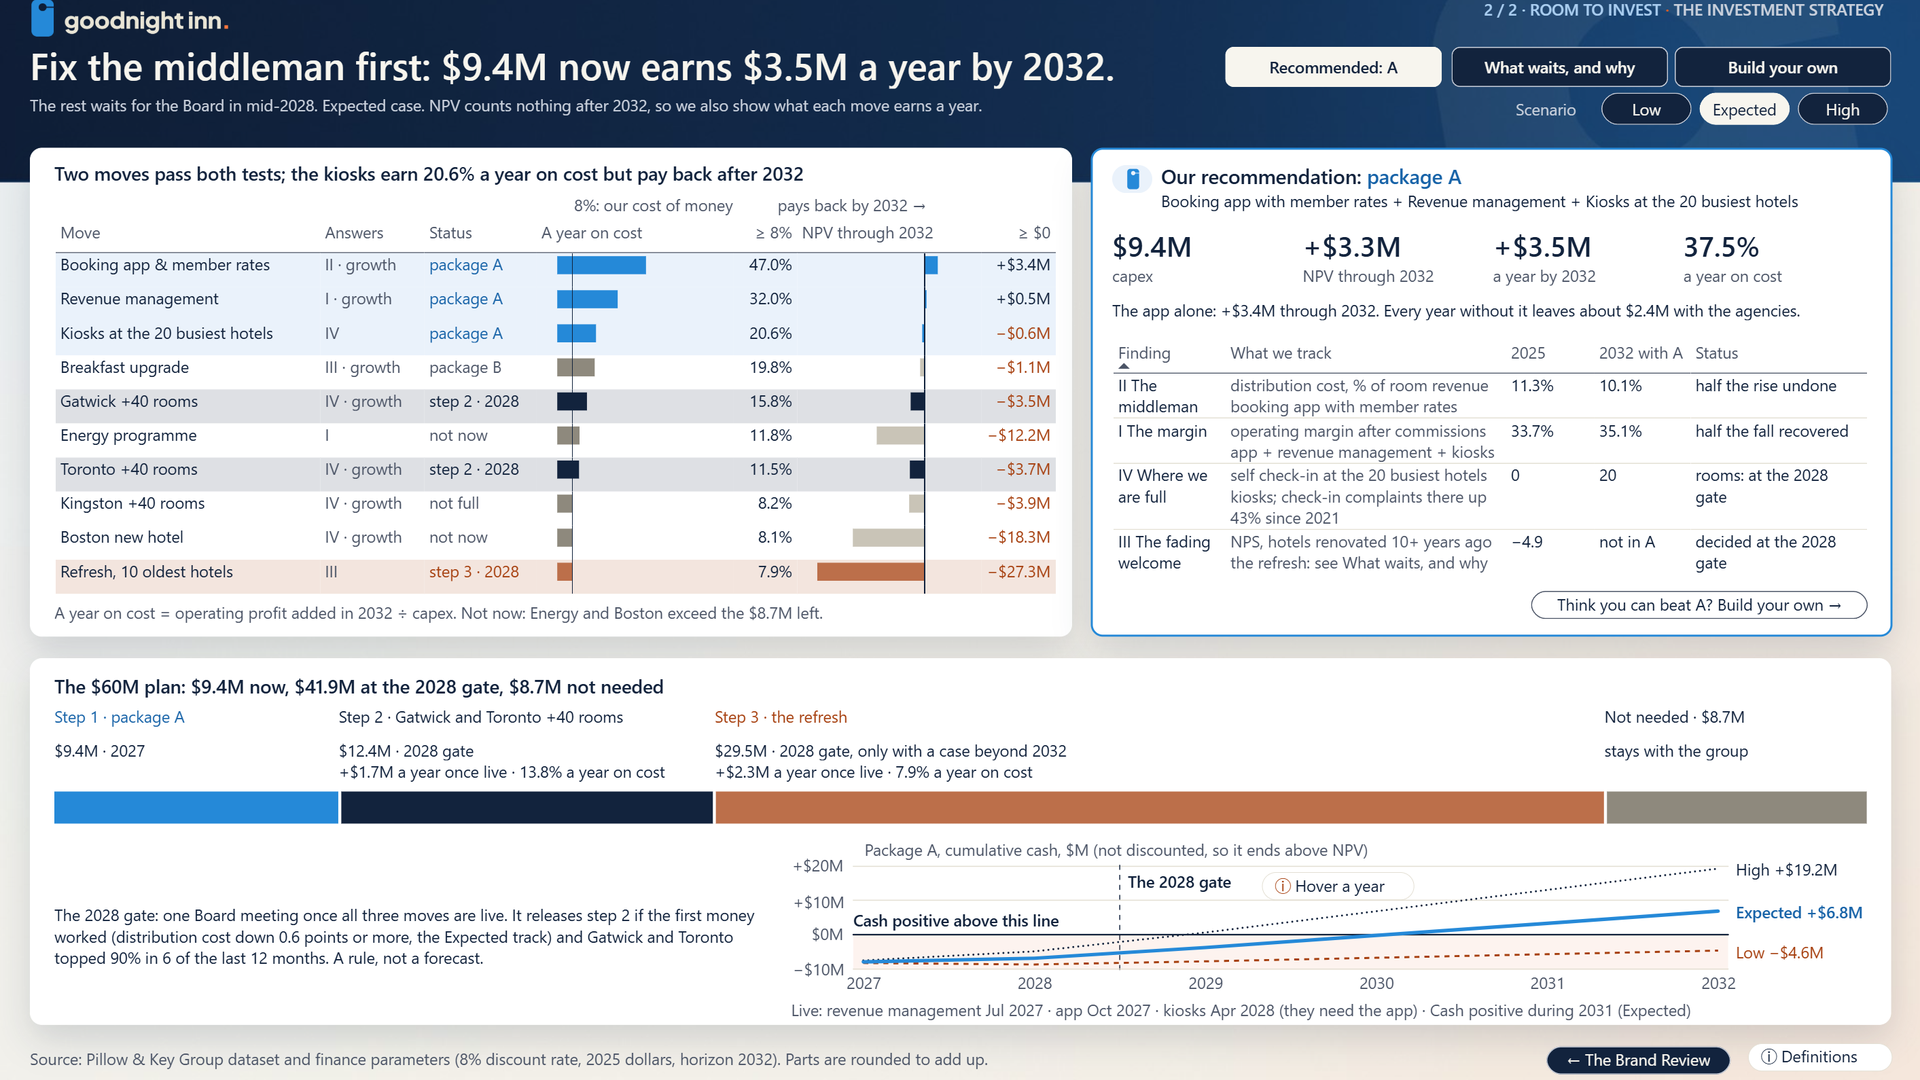
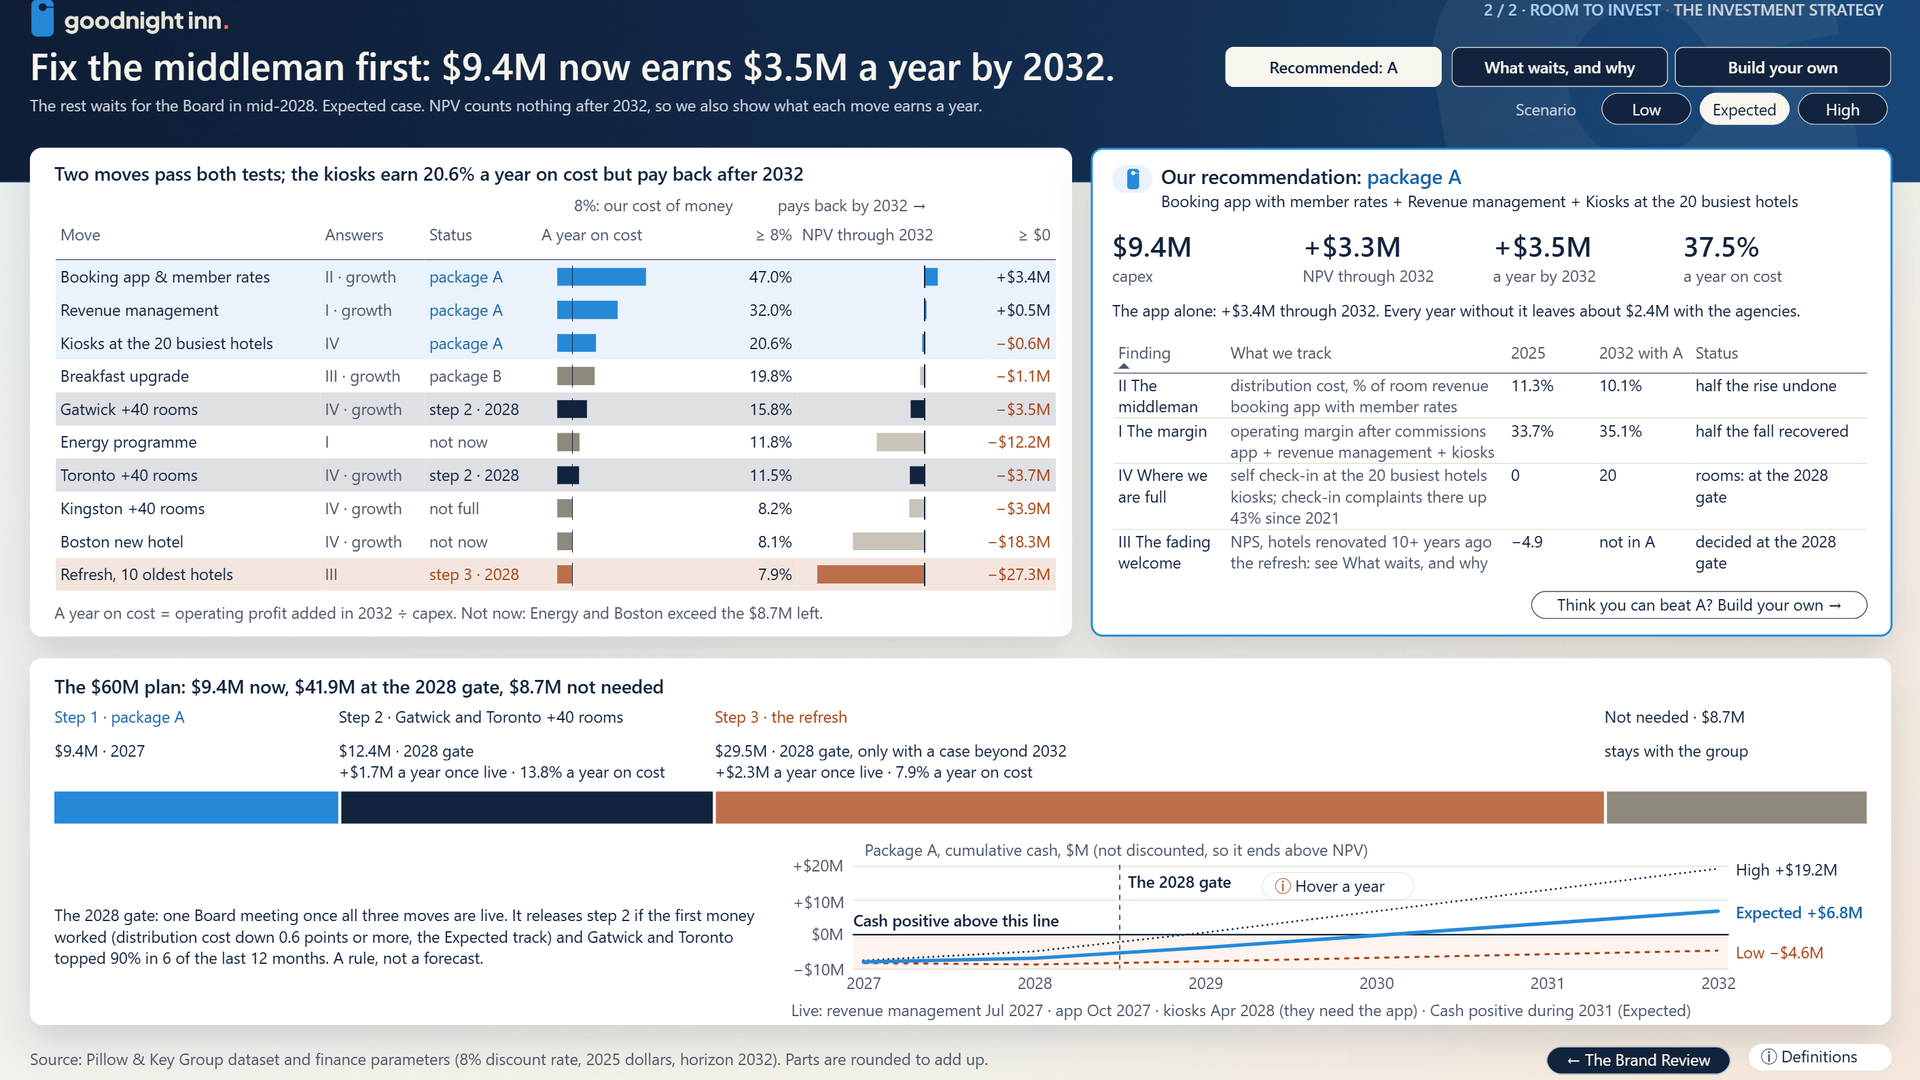
The hero table's text in the middle of its row (doc 39)
A native table has no vertical alignment; f10_rows_centred.py gives the rows a padding of 5 px, bar images of 23 px with
the bar in their middle, and moves the table and the covers of doc 33 with it. The two reference lines are a stroke per
row now (inside the image, so on the bars at every zoom); an unbroken line as a shape over the table was tried and
dropped. Checks on the final copy's own model: texts 130 of 130, numbers 765 of 765, alt texts 0 flags; strip 0; a11y 4
(the orange dot of 21:48).

Changed region(s): [[0.0312, 0.2139, 0.5625, 0.55]]

diff --git a/project/project-state/active/39-hero-table-rows-centred-2026-11-16.md b/project/project-state/active/39-hero-table-rows-centred-2026-11-16.md
@@ -1,0 +1,84 @@
+# 39 · The hero table's text in the middle of its row (16 Nov 2026, night)
+
+**For:** Bjorn, and the agent that picks the project up after him.
+**Asked by Bjorn on 16 Nov, on doc 38:** "the text in the table is aligned to the top of the row instead of the middle;
+this makes the highlight look a bit odd. Can we middle the text or is that impossible? And double check: are we still
+able to call this native visuals only?"
+**Base:** the report as doc 38 left it (he had not saved since 21:48).
+**Branch:** `final/rows-centred`, moved into `rebuild-finalv3`. `main` untouched. **Not published.**
+
+---
+
+## 1 · The answer to both questions
+
+**Vertical alignment.** A native table has no such setting: Microsoft's formatting catalog
+(`powerbi-report-author formatting describe-object tableEx values | grid | columnFormatting | columnHeaders`) lists
+`alignment` (left, centre, right) and nothing for top, middle, bottom. What a table has is **row padding**: the same
+space above and under the text puts the text in the middle. That is what this edit uses.
+
+**Native visuals only: yes.** The report holds no custom visual (no `publicCustomVisuals`, no visual type outside
+Power BI's own: table, line, bar, column, area and scatter chart, card, slicer, button, shape, image, text box). The
+bars in the table are images that DAX measures write and the native table shows; that was so before this edit.
+
+## 2 · The edit (`project/tools/final_edit/f10_rows_centred.py <.Report dir> <.SemanticModel dir>`, can be run again)
+
+| What | Was | Is |
+|---|---|---|
+| `tbl_hero` row padding | 0 | 5 px above and under the text |
+| The bar images | 34 px high, as the row | 23 px: the row minus its padding. The bar (18 px) in the image's middle |
+| A row | 34 px, the text on its top | 33 px, text and bar in its middle |
+| The two reference lines (8 %, NPV 0) | one unbroken line down the ten rows | one stroke of 23 px in every row, 10 px apart: a dashed line |
+| The table | y 224, 374 high | y 219.5, 378 high: the header takes the padding too (41.9 px, was 33.5), its words stay at their height |
+| The ten rows | y 257.5 to 597.5 | y 261.4 to 592.4 |
+| `cover_hero_yield`, `cover_hero_npv` (doc 33) | over the old rows | over the new ones |
+
+**Why the lines are dashed now.** A line ran unbroken because its image was as high as its row. With padding an image
+ends 5 px from the row's edge, so each row keeps its own stroke.
+
+**Tried and dropped: two rectangles over the table for an unbroken line.** Desktop places a shape on whole screen
+pixels; at the zoom of the test window that is a grid of 2 page px, and the line stood up to 1.7 px beside the point
+where the NPV bars begin. Inside the image the line cannot leave the bars, at any zoom. The script removes the two
+rectangles (`hero_line_8`, `hero_line_0`) if a copy still has them.
+
+**Padding 5 and not 6.** With 6 the text's box is in the middle, but its capitals sit about 1 px low; with 5 the
+capitals are within a quarter of a pixel of the row's middle, and the stroke is 2 px longer.
+
+**The model** (341 measures, none new): `Hero Yield Bar SVG`, `Hero NPV Bar SVG`. `sketch_model.py` (`HERO_PAD`,
+`HERO_IMG_H`), `opzet_report.py` (the grid) and `number_checks.py` (the image's height, the bar's place) say the same.
+
+## 3 · Checks
+
+On the final copy's own model (open in Desktop): texts against the spec 130 of 130, numbers 765 of 765, alt texts
+0 flags. On `GoodnightInn-final.Report`: strip check 0, `pbir_detect` 0 unwaived, `validate` 0 errors; `a11y_check`
+4 failures, the orange dot of Bjorn's save of 21:48, nothing of this edit.
+Measured on a throwaway copy: a row 33.1 px, the header rule at y 260.7, the first row from 261.4; no scroll bar.
+
+Evidence: `project/deliverables/final-room-to-invest/rows-centred/` (`table-before.png`, `table-after.png`,
+`table-tried-unbroken-line.png`, `page2-recommended.png`, `checks/`). The gallery's `report-page2.png` and
+`cover-b.png` were made again.
+
+## 4 · The open window
+
+Two measures synced into the open window's model and the report reloaded in it once. Not captured (doc 37 section 4);
+seen on the throwaway copy, which holds the same files.
+
+## 5 · Known, and left
+
+- **The hover text of doc 33 was not tried again.** The covers are over the new rows by measurement; whether an image
+  cell still overflows with padding was not measured. First thing to hover on the new link.
+- Rendered in the Recommended view; the table is in no other view. Low and High not rendered (the bars' lengths
+  follow the case, their place in the row does not).
+- The generator's report has the same grid and images; it was not rendered.
+
+## 6 · Open
+
+1. Bjorn looks at it in the window "Goodnight Inn - Room to Invest": keep, or back to rows without padding (commit
+   `ba793c6`).
+2. He publishes and makes the Publish to Web link; then the gate and the walkthrough (a bar in the hero table first).
+3. Then File > Save as `.pbix`, the phone check, the post (doc 35), 17 Nov.
+
+## Log
+
+- 16 Nov night: the catalog read; row padding tried on a throwaway copy; an unbroken line over the table tried,
+  measured and dropped; the dashed line inside the images built, applied to the final copy and the open window's
+  model; checks; pushed.

diff --git a/CLAUDE.md b/CLAUDE.md
@@ -119,6 +119,7 @@ The daily driver is `/next` — it reads the state, reports gate status, and rou
 | Pakket A in één oogopslag 16 nov laat: de drie rijen van pakket A op een lichtblauw vlak, de aanbevelingskaart met een Coffee Blue-rand, één kleur per besluit (A blauw, stap 2 Night, stap 3 leigrijs, ook in de tabel), en overal Step in plaats van Tranche; 341 measures; edit `project/tools/final_edit/f7_package_a.py`, open venster bijgewerkt met `f7_push_model.ps1`; niet gepubliceerd | `project/project-state/active/36-package-a-at-a-glance-2026-11-16.md`; `project/deliverables/final-room-to-invest/package-a/` |
 | Vlakken voor stap 2 en 3, 16 nov nacht: de rijen van stap 2 en stap 3 in de tabel op een licht vlak in hun eigen kleur, dezelfde drie vlakken achter de labels boven de planbalk (`plan_tint_1..3`), NPV-balk van een stap in de stapkleur; op Bjorns save van 21:48 (o.a. oranje punt in de eyebrows, regel '44 of 50 hotels' weg); edit `project/tools/final_edit/f8_step_tints.py`; a11y: 4 meldingen, alle vier de oranje punt; niet gepubliceerd | `project/project-state/active/37-step-grounds-table-and-plan-bar-2026-11-16.md`; `project/deliverables/final-room-to-invest/step-tints/` |
 | Stap 3 in klei, 16 nov nacht: Bjorn koos klei (#BC6F4A, Burnt Tangerine op 75 %) als derde accent voor stap 3 in planbalk en tabel; de vlakken boven de planbalk van doc 37 zijn weg, de drie plannen blijven gemarkeerd in de tabel (A lichtblauw, stap 2 licht Night, stap 3 licht klei); edit `project/tools/final_edit/f9_step3_clay.py`; niet gepubliceerd | `project/project-state/active/38-step-3-in-clay-2026-11-16.md`; `project/deliverables/final-room-to-invest/step3-accent/` |
+| Tabeltekst in het midden van de rij, 16 nov nacht: een native tabel kent geen verticale uitlijning; rijpadding 5 px zet tekst en balk in het midden van een rij van 33 px, de balkafbeeldingen zijn 23 px en de twee referentielijnen lopen daardoor gestreept (per rij een streep, in de afbeelding zelf); een doorlopende lijn als vorm over de tabel is geprobeerd en verworpen; edit `project/tools/final_edit/f10_rows_centred.py`; niet gepubliceerd | `project/project-state/active/39-hero-table-rows-centred-2026-11-16.md`; `project/deliverables/final-room-to-invest/rows-centred/` |
 | Keep the toolkit first-in-class (research any subject) | skill `scout` + `research/radar.md` |
 
 ## Environment notes

diff --git a/project/deliverables/final-room-to-invest/README.md b/project/deliverables/final-room-to-invest/README.md
@@ -111,3 +111,10 @@ Bjorn chose clay as the third accent: step 3 is clay in the plan bar and in the 
 in the table, and the grounds over the plan bar of the round before are gone. `step3-accent/` shows it: `options.png`
 (the sketch he chose from), `page2-before.png`, `page2-recommended-clay.png` and the check reports. The account is
 `project/project-state/active/38-step-3-in-clay-2026-11-16.md`.
+
+## The table's text in the middle of its row (16 Nov, night)
+
+A native table has no vertical alignment; row padding puts text and bar in the middle of the row. The two reference
+lines are a stroke per row now, a dashed line. `rows-centred/` shows it: `table-before.png`, `table-after.png`,
+`table-tried-unbroken-line.png` (dropped), `page2-recommended.png` and the check reports. The account is
+`project/project-state/active/39-hero-table-rows-centred-2026-11-16.md`.
